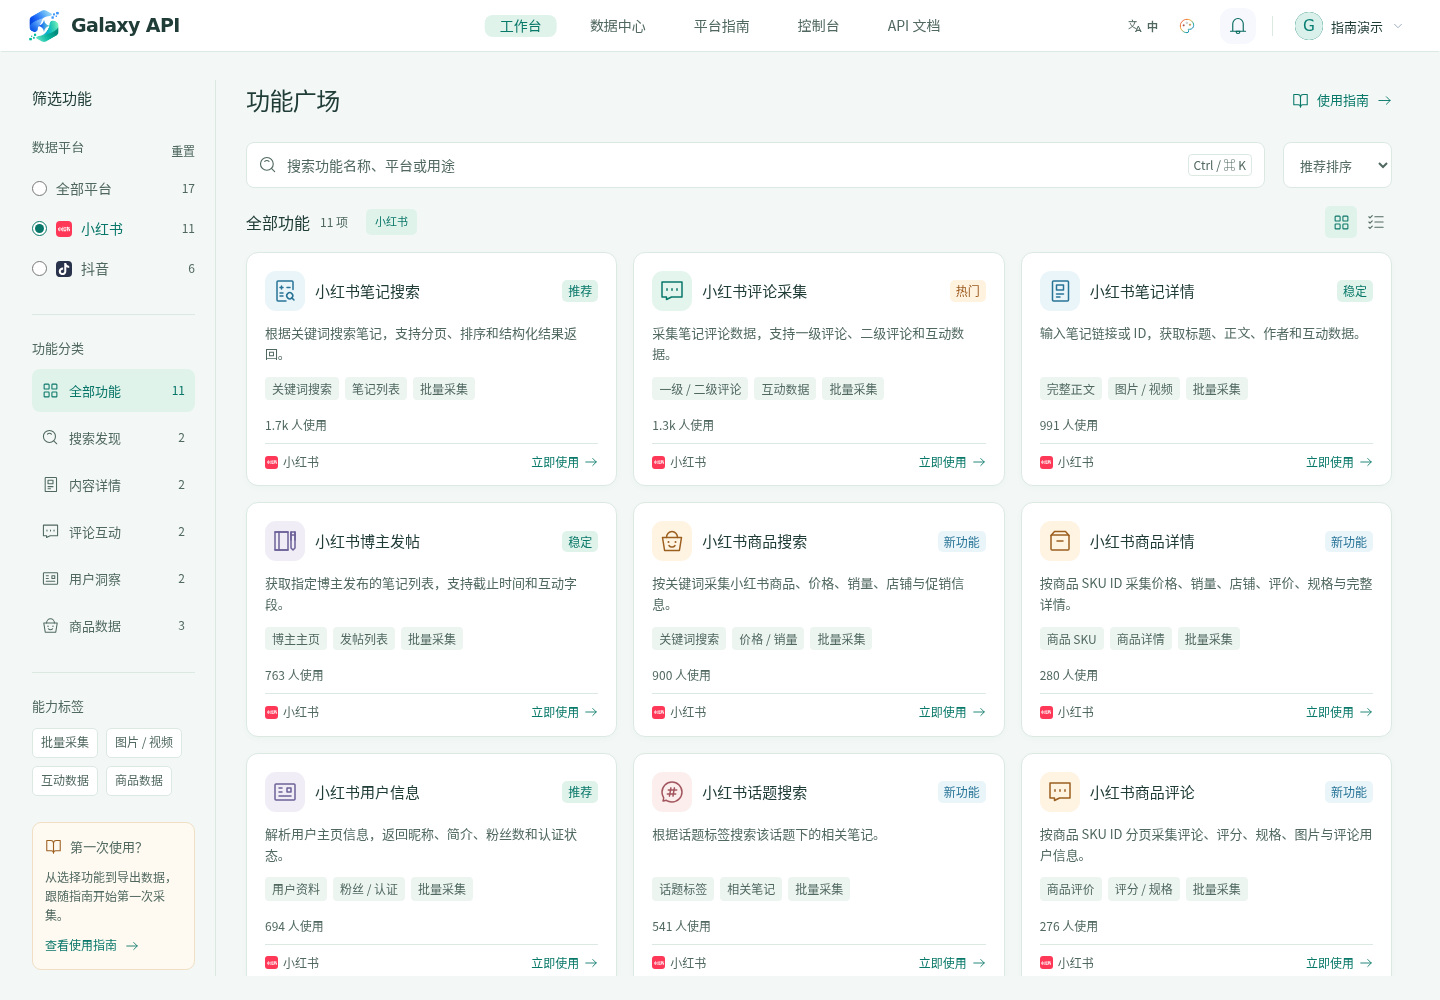
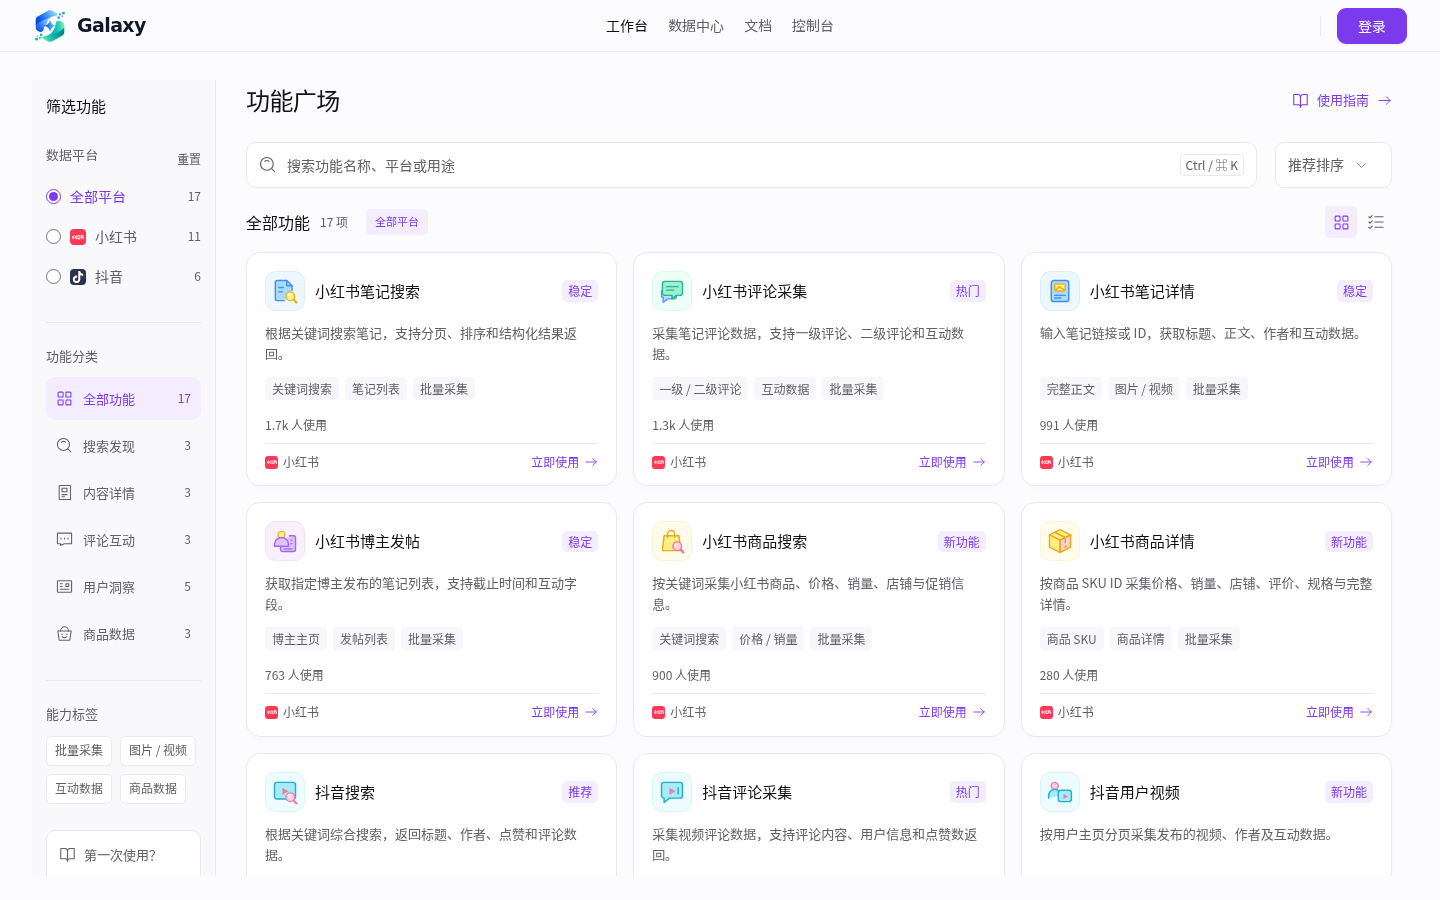
Refresh live platform screenshots into one six-panel feature preview

diff --git a/README.en.md b/README.en.md
@@ -38,40 +38,13 @@ The following public guides support Chinese and English through the page languag
 | [Comment analysis](https://galaxysapi.com/guides/xiaohongshu-comment-analysis?utm_source=github&utm_medium=readme&utm_campaign=xiaohongshu) | Prepare samples, submit reports and study audience concerns and purchase signals |
 | [API integration](https://galaxysapi.com/guides/xiaohongshu-api-integration?utm_source=github&utm_medium=readme&utm_campaign=xiaohongshu) | Configure API keys, search notes and retrieve details and comments |
 
-## Platform screenshots
+## Feature preview
 
-**Choose a Xiaohongshu collection tool.**
+Fresh screenshots from the live platform in the Light theme, arranged in two rows and three columns: collection workbench, note search, Data Center, note preview, comment analysis and content analysis. Data screens use the platform's public examples.
 
-![Xiaohongshu collection workbench](assets/screenshots/01-workbench.png)
+[![Galaxy feature preview: six live-platform screenshots in a two-row, three-column layout](assets/screenshots/platform-overview.png)](assets/screenshots/platform-overview.png)
 
-**Preview note titles, text, images and engagement; search, filter and export collected records.**
-
-![Data preview with actual notes from a Victoria Harbour search task](assets/screenshots/04-data-preview.png)
-
-<details>
-<summary>View collection progress, Data Center and analysis reports</summary>
-
-**Batch collection and progress**
-
-![Xiaohongshu keyword collection: parameters and progress](assets/screenshots/02-collection.png)
-
-**Task management in Data Center**
-
-![Data Center: task search, status, preview and batch actions](assets/screenshots/03-data-center.png)
-
-**Comment analysis report example**
-
-![Published comment analysis report example](assets/screenshots/05-comment-report.png)
-
-[Open the comment report example](https://galaxysapi.com/api/reports/sample?utm_source=github&utm_medium=readme&utm_campaign=xiaohongshu)
-
-**Video content analysis report example**
-
-![Published video content analysis report example](assets/screenshots/06-content-report.png)
-
-[Open the content report example](https://galaxysapi.com/api/reports/content-sample?utm_source=github&utm_medium=readme&utm_campaign=xiaohongshu)
-
-</details>
+[Open the comment analysis report example](https://galaxysapi.com/api/reports/sample?utm_source=github&utm_medium=readme&utm_campaign=xiaohongshu) · [Open the content analysis report example](https://galaxysapi.com/api/reports/content-sample?utm_source=github&utm_medium=readme&utm_campaign=xiaohongshu)
 
 ## Xiaohongshu API capabilities
 

diff --git a/README.md b/README.md
@@ -35,40 +35,13 @@ Galaxy API 是面向自媒体运营、品牌研究和开发者的数据采集分
 | [小红书评论分析](https://galaxysapi.com/guides/xiaohongshu-comment-analysis?utm_source=github&utm_medium=readme&utm_campaign=xiaohongshu) | 准备样本、提交报告、研究用户关注点与购买信号 |
 | [小红书 API 接入教程](https://galaxysapi.com/guides/xiaohongshu-api-integration?utm_source=github&utm_medium=readme&utm_campaign=xiaohongshu) | 设置 API Key、调用笔记搜索、读取详情与评论 |
 
-## 平台界面
+## 功能预览
 
-**功能广场：按平台和用途选择采集工具。**
+正式平台浅色主题截图，按两行三列展示：采集工作台、笔记搜索、数据中心、笔记预览、评论分析和内容分析。
 
-![小红书功能广场：筛选和查找采集工具](assets/screenshots/01-workbench.png)
+[![Galaxy 平台功能预览：六张正式站截图，两行三列排列](assets/screenshots/platform-overview.png)](assets/screenshots/platform-overview.png)
 
-**数据预览：查看笔记标题、正文、图片与互动信息，进一步筛选或导出。**
-
-![数据预览：维多利亚港搜索任务的真实笔记数据](assets/screenshots/04-data-preview.png)
-
-<details>
-<summary>展开查看采集进度、数据中心和分析报告</summary>
-
-**批量采集与进度**
-
-![小红书关键词采集：输入参数与进度展示](assets/screenshots/02-collection.png)
-
-**数据中心任务管理**
-
-![数据中心：任务搜索、状态、预览和批量操作](assets/screenshots/03-data-center.png)
-
-**评论分析报告示例**
-
-![小红书评论分析报告公开示例](assets/screenshots/05-comment-report.png)
-
-[打开完整评论报告示例](https://galaxysapi.com/api/reports/sample?utm_source=github&utm_medium=readme&utm_campaign=xiaohongshu)
-
-**视频内容分析报告示例**
-
-![小红书视频内容分析报告公开示例](assets/screenshots/06-content-report.png)
-
-[打开完整内容报告示例](https://galaxysapi.com/api/reports/content-sample?utm_source=github&utm_medium=readme&utm_campaign=xiaohongshu)
-
-</details>
+[打开评论分析报告示例](https://galaxysapi.com/api/reports/sample?utm_source=github&utm_medium=readme&utm_campaign=xiaohongshu) · [打开内容分析报告示例](https://galaxysapi.com/api/reports/content-sample?utm_source=github&utm_medium=readme&utm_campaign=xiaohongshu)
 
 ## 小红书 API：从内容发现到达人研究
 
